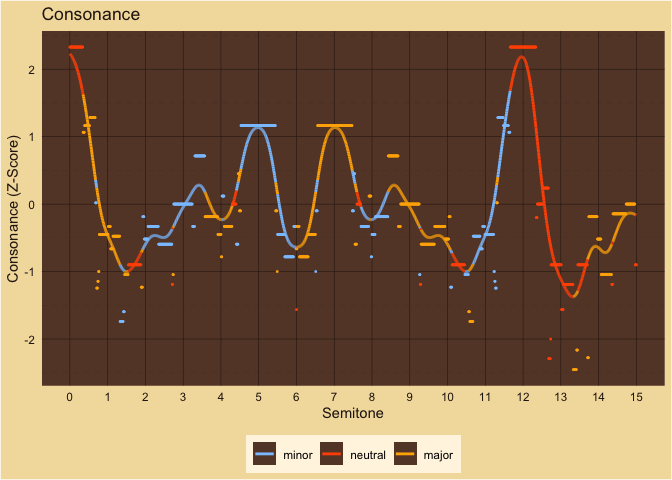
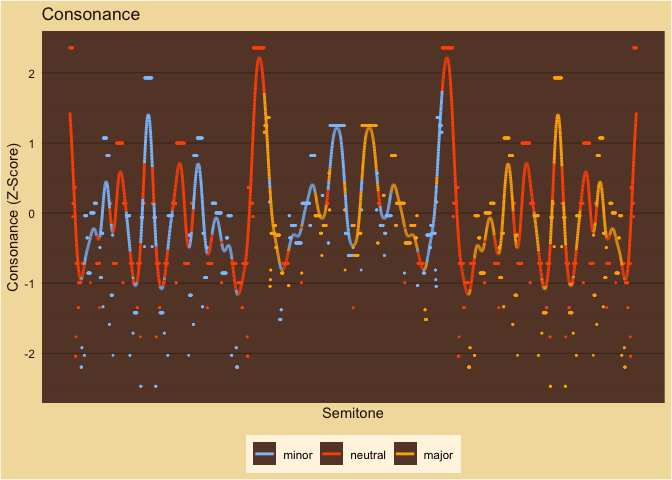
sweeping from -12 to 24

diff --git a/man/thoughts/SimpleMajorMinorTonality.md b/man/thoughts/SimpleMajorMinorTonality.md
@@ -1,7 +1,7 @@
 Simple Major Minor Tonality
 ================
 
-Framed dyads from 0 to 15 semitones with 2 harmonics. Example chord:
+Framed dyads from -12 to 24 semitones with 2 harmonics. Example chord:
 60,64,72.
 
 ![](../figures/Simple-Major-Minor-Tonality-unnamed-chunk-3-1.png)<!-- -->
